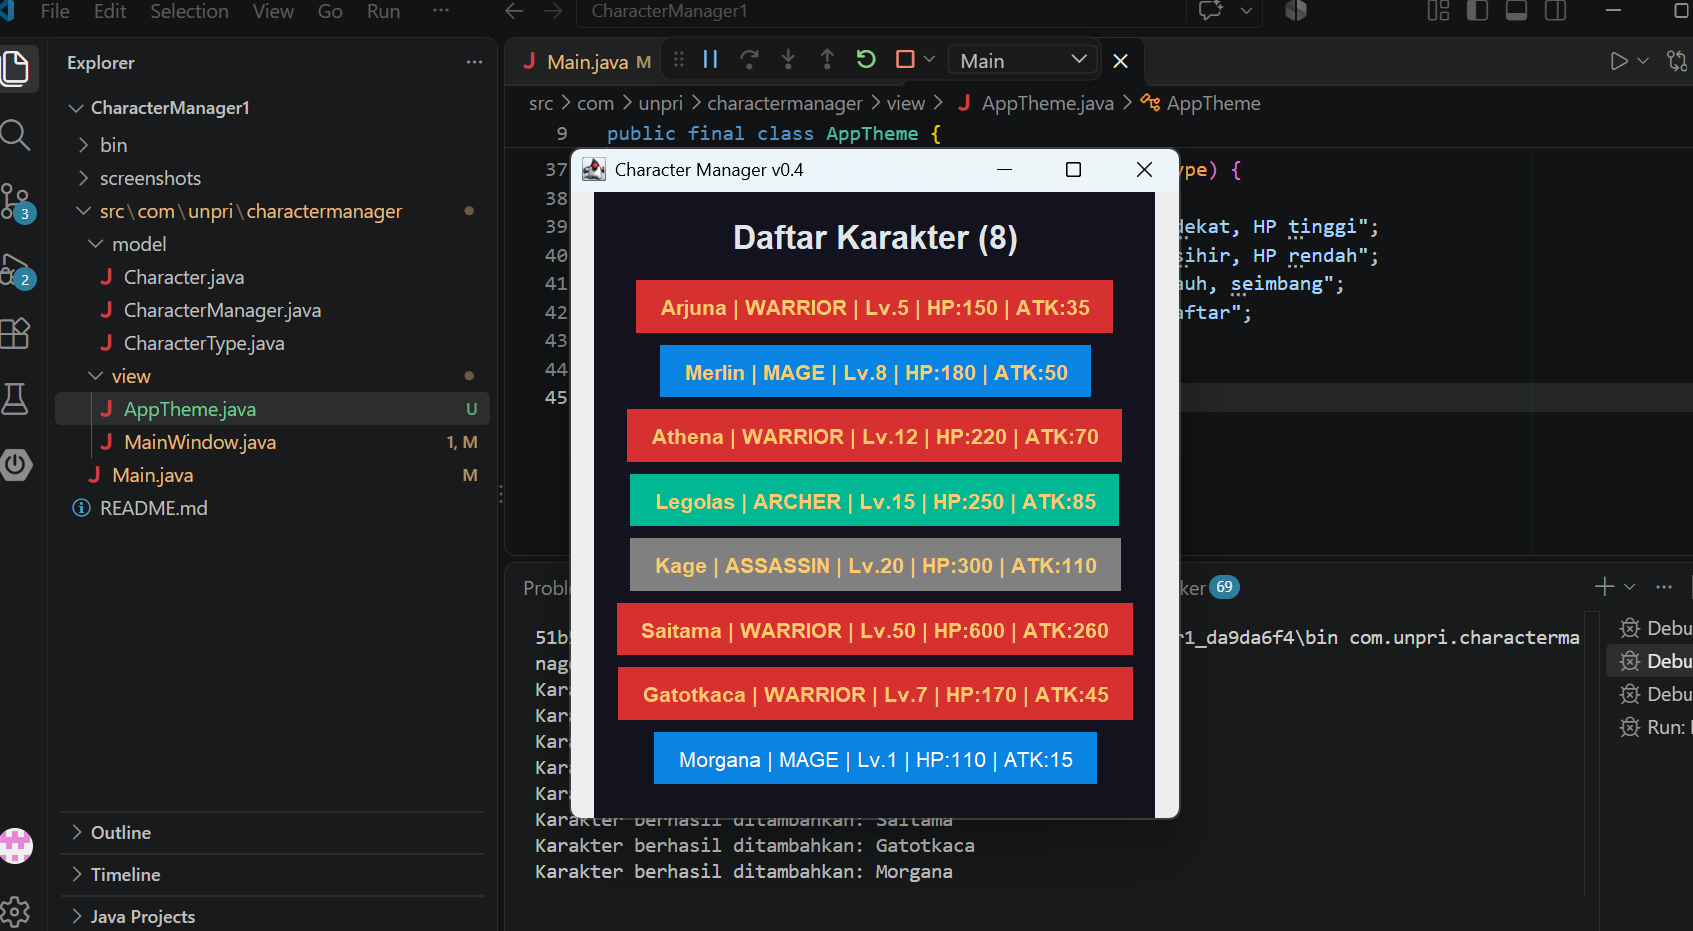
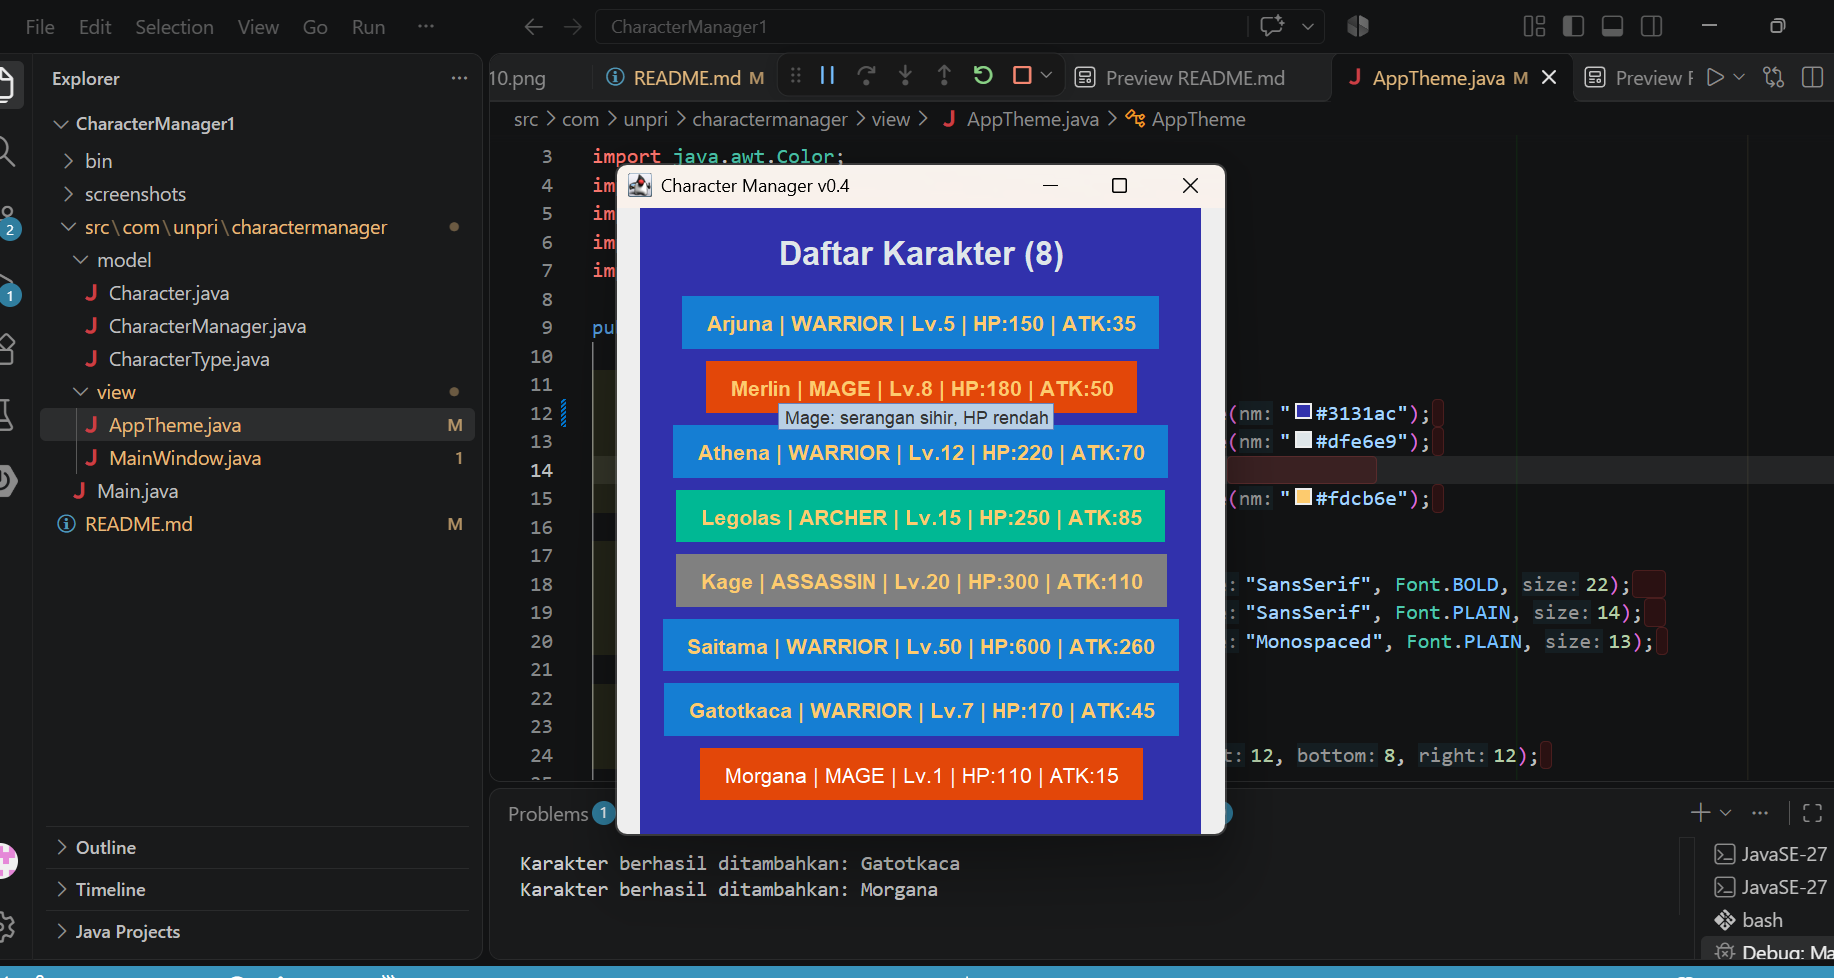
update kedua tp10

diff --git a/src/com/unpri/charactermanager/view/AppTheme.java b/src/com/unpri/charactermanager/view/AppTheme.java
@@ -9,7 +9,7 @@ import com.unpri.charactermanager.model.CharacterType;
 public final class AppTheme {
 
     // Palet warna (Minimal 3 warna)
-    public static final Color BG_MAIN    = Color.decode("#13131f"); 
+    public static final Color BG_MAIN    = Color.decode("#3131ac"); 
     public static final Color TEXT_MAIN  = Color.decode("#dfe6e9"); 
     public static final Color TEXT_LIGHT = Color.WHITE;             
     public static final Color GOLD       = Color.decode("#fdcb6e"); 

diff --git a/README.md b/README.md
@@ -1,118 +1,3 @@
-# Character Manager — TP3 (Java Visual SIH-6406)
-
-## Deskripsi
-
-Character Manager merupakan program sederhana berbasis Java untuk mengelola karakter. Program ini menerapkan konsep Object-Oriented Programming (OOP), seperti encapsulation, constructor, dan enum. Program ini memiliki fitur level up, pengelolaan mana, serta pemeriksaan kondisi hidup karakter menggunakan method `isAlive()`.
-
-## Screenshot Output Program
-
-Screenshot berikut menunjukkan hasil eksekusi program, termasuk fitur level up, mana, dan `isAlive()`.
-
-![Output Character Manager](screenshots/output.png)
-
-## Struktur Folder Project
-
-```text
-CharacterManager/
-├── src/
-│   └── com/
-│       └── unpri/
-│           └── charactermanager/
-│               ├── Main.java
-│               └── model/
-│                   ├── Character.java
-│                   └── CharacterType.java
-├── screenshots/
-│   └── output.png
-└── README.md
-```
-
-## Fitur Program
-
-- Membuat objek karakter menggunakan dua constructor.
-- Menentukan jenis karakter menggunakan enum `CharacterType`.
-- Menghitung HP dan attack berdasarkan level.
-- Menaikkan level karakter menggunakan `setLevel()`.
-- Mengatur mana dengan validasi nilai negatif.
-- Memeriksa kondisi hidup karakter melalui `isAlive()`.
-- Menampilkan data karakter menggunakan `toString()`.
-
-## Identitas Mahasiswa
-
-- Nama lengkap: [Enjel Srimelda Damanik]
-- NIM: [253303621267]
-- Mata kuliah: Java Visual SIH-6406
-
-## Analisis Desain dan Ekosistem Java
-
-Dokumen Google Docs: [Tempelkan link Google Docs Bagian D di sini] (https://docs.google.com/document/d/1GdGIiooYlFPSR_MY_cIMAgw6LOZMwmrWbYD9XmSj52s/edit?usp=sharing)
-
-
-# TP5 — Character Manager: Implementasi dan Analisis
-
-## A. Implementasi Core
-
-Pada tugas TP5, project CharacterManager dikembangkan dengan beberapa fitur utama:
-
-1. `addCharacter()` digunakan untuk menambahkan karakter baru ke dalam daftar.
-2. `findByName()` digunakan untuk mencari karakter berdasarkan nama.
-3. `removeCharacter()` digunakan untuk menghapus karakter.
-4. `getTotalCharacters()` digunakan untuk menghitung jumlah karakter.
-5. `getAllCharacters()` digunakan untuk mendapatkan salinan daftar karakter.
-
-Penambahan karakter dengan nama duplikat ditolak agar setiap karakter memiliki nama yang unik.
-
-## B. Mini-Challenge
-
-Dua fitur tambahan yang berhasil diimplementasikan:
-
-**1. getAverageLevel()**
-
-Method ini menghitung rata-rata level seluruh karakter. Jika daftar karakter kosong, method mengembalikan nilai 0 agar tidak terjadi pembagian dengan nol.
-
-**2. findByType(CharacterType type)**
-
-Method ini mencari karakter berdasarkan tipe, seperti WARRIOR, MAGE, ARCHER, dan HEALER. Hasil pencarian dikembalikan dalam ArrayList baru.
-
-## C. Fitur Analitik Rancangan Sendiri
-
-**Nama fitur: findStrongest()**
-
-Fitur ini digunakan untuk mencari karakter dengan nilai attack power tertinggi.
-
-Cara kerjanya adalah membandingkan attack power setiap karakter di dalam daftar. Karakter dengan nilai tertinggi akan dikembalikan sebagai hasil.
-
-Fitur ini menjaga encapsulation karena tidak memberikan akses langsung ke ArrayList internal. Jika daftar karakter kosong, method mengembalikan null.
-
-## D. Analisis Reference dan Rancangan
-Dokumen analisis Google Docs:
-[https://docs.google.com/document/d/1_PTAUrss2dBTFEQFEGuBqRKJbhjbdTM0kX4zpoS-hyU/edit?usp=sharing]
-
-## E. Screenshot Hasil Pengujian
-### 1. Output Program TP5
-![Output Program TP5](screenshots/output_tp5.png)
-### 2. Eksperimen Object Reference dan Defensive Copy
-![Eksperimen Reference dan Defensive Copy](screenshots/reference-defensive-copy.png)
-
-
-## TP8
-
-### 1. Screenshot MainWindow
-                 (SEBELUM)
-![MainWindow TP8](screenshots/sebelum_tp8.png)  
-                (SESUDAH)
-![MainWindow TP8](screenshots/sesudah_tp8.png)
-
-### 2. Aliran Data Aplikasi (MVC)
-Aliran data diawali dari `Main.java` yang menginstansiasi `CharacterManager` untuk mengelola objek `Character` sebagai representasi layer Model. Selanjutnya, `Main.java` mengambil seluruh daftar karakter melalui metode `manager.getAllCharacters()` dan meneruskannya ke dalam *constructor* `MainWindow`. Komponen `MainWindow` yang bertindak sebagai layer View menerima koleksi data tersebut lalu melakukan iterasi secara dinamis untuk merender daftar karakter serta menghitung statistik rata-rata level pada antarmuka GUI.
-
-### 3. Daftar Karakter Baru
-* **Legolas** (Tipe: `ARCHER`, Level: 15): Dipilih dengan tipe `ARCHER` untuk menambahkan variasi kelas *ranged/physical damage* dengan level menengah tinggi.
-* **Kage** (Tipe: `ASSASSIN`, Level: 20): Dipilih dengan tipe `ASSASSIN` untuk menguji kelas *stealth/high-burst* serta memberikan nilai level paling tinggi agar korelasi angka rata-rata level terlihat dinamis.
-
-### 4. Tautan Analisis GUI & MVC (Bagian D)
-Link Document: (https://docs.google.com/document/d/1NI6IC3iE0PxcyzHzGdWYQRWr3IRLTMnEWTSit2KKvp0/edit?usp=sharing)
-
 
 ## TP10 — Dokumentasi & Analisis Tampilan (Sprint #4)
 
